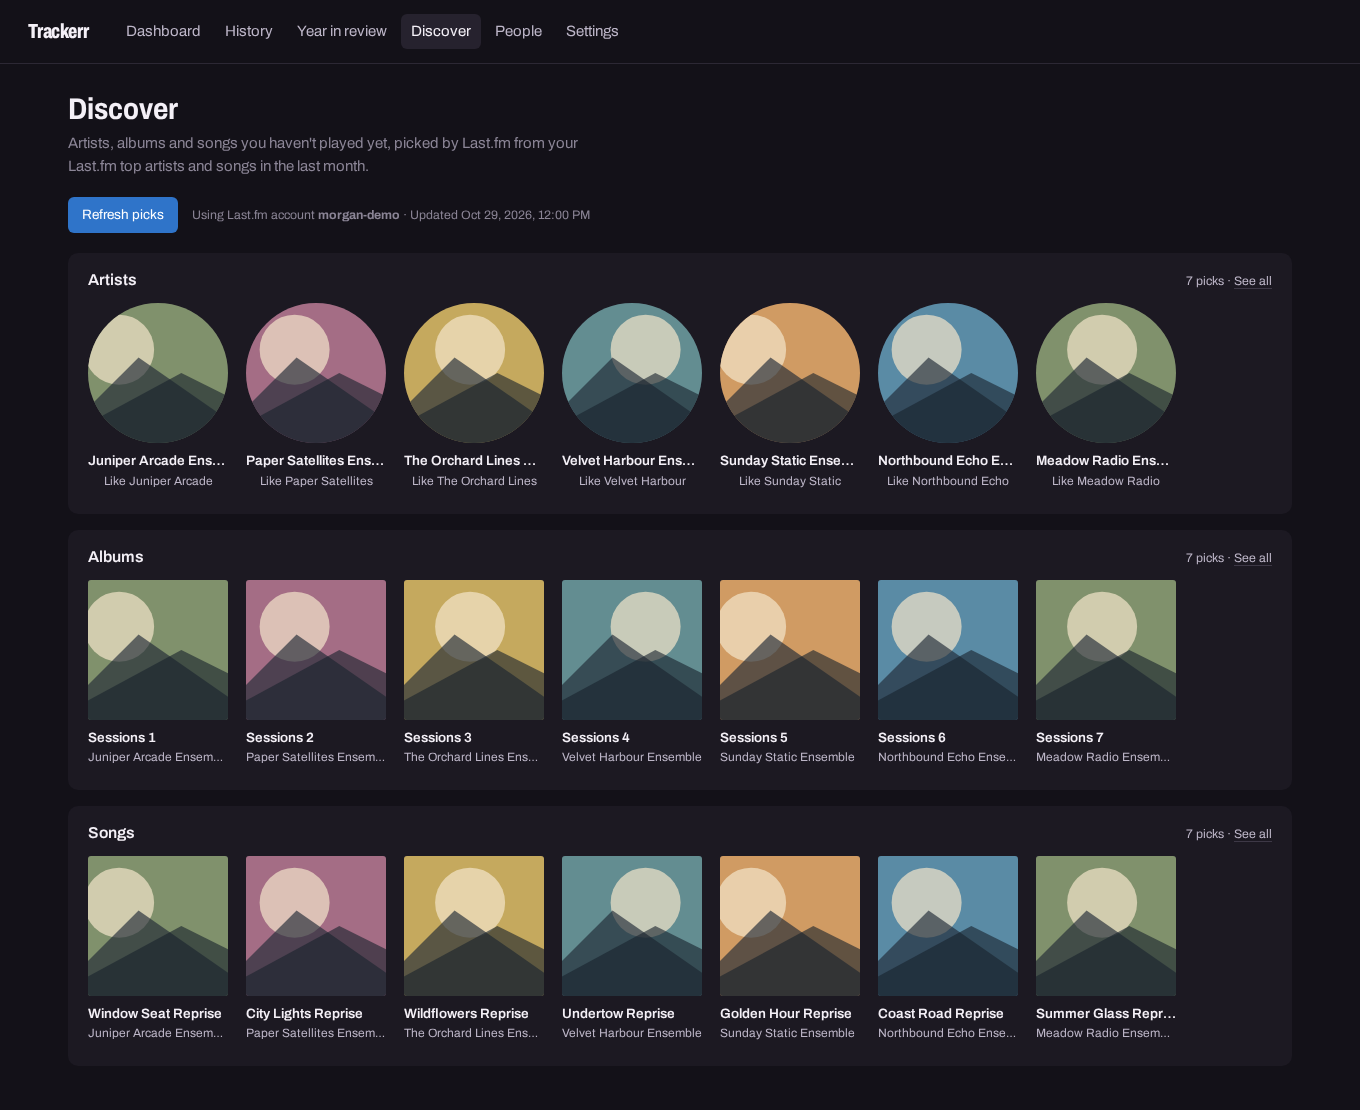
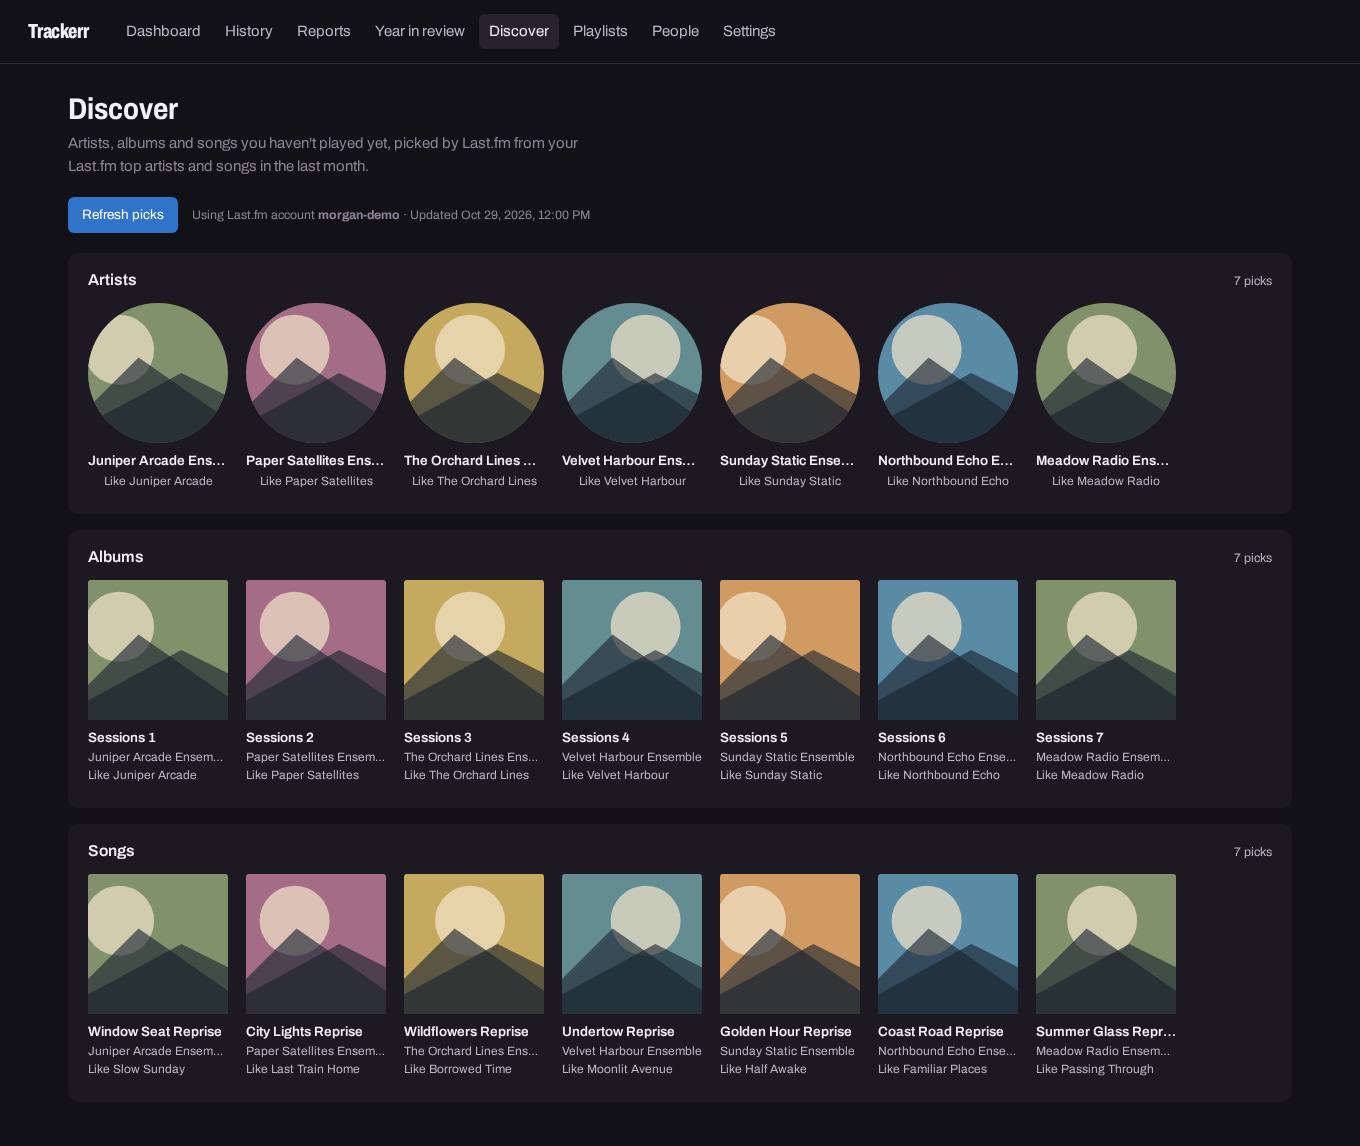
Show which played artist or song each Discover album and song is like
Albums now say "Like <seed artist>" under their artist, the way artist picks
already did, and songs say "Like <seed song>", with the seed's artist on hover.
A seed banned since the last refresh stops being named.

The screenshot script's demo picks gain the seeds list Discover reads (the page
returned 500 without it) and a seed song for each song pick.

diff --git a/src/lib/server/recs.review.test.ts b/src/lib/server/recs.review.test.ts
@@ -20,13 +20,15 @@ const start = await import('../../routes/auth/lastfm/+server.js');
 const callback = await import('../../routes/auth/lastfm/callback/+server.js');
 const settings = await import('../../routes/settings/+page.server.js');
 const discover = await import('../../routes/discover/+page.server.js');
+const ingest = await import('./ingest.js');
+const bans = await import('./bans.js');
 const { getJson, deezerStep } = await import('./enrich.js');
 let testTime = Date.parse('2026-10-02T00:00:00Z');
 
 beforeEach(() => {
   vi.useFakeTimers();
   vi.setSystemTime(testTime += 60_000);
-  for (const table of ['plays', 'sessions', 'cache', 'tracks', 'albums', 'artist_genres', 'artists', 'users']) db.run(`DELETE FROM ${table}`);
+  for (const table of ['bans', 'plays', 'sessions', 'cache', 'tracks', 'albums', 'artist_genres', 'artists', 'users']) db.run(`DELETE FROM ${table}`);
   db.run("INSERT INTO users (id, display_name, created_at, lastfm_user) VALUES (1, 'Alice', 0, 'alice-fm')");
 });
 afterEach(() => { vi.unstubAllGlobals(); vi.useRealTimers(); });
@@ -201,6 +203,22 @@ test('invalidates picks after unlink and linking another account', async () => {
   const linked = discover.load({ locals: { user: user() } } as never) as any;
   expect(linked.lastfmUser).toBe('bob-fm');
   expect(linked.picks).toBeNull();
+});
+
+test('albums and songs say which seed they are like, until that seed is banned', async () => {
+  fakeFetch();
+  await finish(recs.buildDiscover(user()));
+  const shown = () => (discover.load({ locals: { user: user() } } as never) as any).picks;
+  expect(shown().artists.map((a: any) => [a.artist, a.why])).toEqual([['New Band', 'Seed']]);
+  expect(shown().albums.map((a: any) => [a.album, a.why])).toEqual([['Debut', 'Seed']]);
+  expect(shown().songs.map((s: any) => [s.title, s.why, s.whyBy])).toEqual([['Fresh', 'Seed Song', 'Seed']]);
+  const seed = ingest.upsertArtist('Seed');
+  bans.ban(1, 'track', ingest.upsertTrack(seed, null, 'Seed Song').id);
+  expect(shown().songs[0].why).toBeUndefined();
+  expect(shown().albums[0].why).toBe('Seed');
+  bans.ban(1, 'artist', seed);
+  expect([shown().artists[0].why, shown().albums[0].why]).toEqual([undefined, undefined]);
+  expect(shown().songs.map((s: any) => s.title)).toEqual(['Fresh']);
 });
 
 test('rejects linking after the Trackerr account changes', async () => {

diff --git a/src/routes/discover/+page.server.ts b/src/routes/discover/+page.server.ts
@@ -5,13 +5,17 @@ import { lastfmApp } from '#lib/server/connections.js';
 import { get } from '#lib/server/db.js';
 import { bannedIds, bannedKeys, recBanned, type Banned } from '#lib/server/bans.js';
 
+type Keys = ReturnType<typeof bannedKeys>;
+// The seed a pick says it's like, unless that seed has been banned since.
+const seedBanned = (r: Rec, keys: Keys) => !!r.why && (r.title ? !!r.whyBy && keys.song(r.whyBy, r.why) : keys.artist(r.why));
 // Saved picks are filtered as they're shown, so a ban made since the last refresh still takes them out.
-const withUrl = (l: Rec[], banned: Banned) => l.filter((r) => !recBanned(banned, r)).map((r) => ({ ...r, url: spotifySearchUrl(r) }));
+const withUrl = (l: Rec[], banned: Banned, keys: Keys) =>
+	l.filter((r) => !recBanned(banned, r)).map((r) => ({ ...r, why: seedBanned(r, keys) ? undefined : r.why, url: spotifySearchUrl(r) }));
 
 export const load: PageServerLoad = ({ locals }) => {
 	const saved = savedDiscover(locals.user!.id);
 	const banned = bannedIds(locals.user!.id);
-	const bannedArtist = bannedKeys(locals.user!.id).artist;
+	const keys = bannedKeys(locals.user!.id);
 	return {
 		enabled: !!lastfmApp(),
 		lastfmUser: locals.user!.lastfm_user as string | null,
@@ -19,10 +23,10 @@ export const load: PageServerLoad = ({ locals }) => {
 		checking: get('SELECT COUNT(*) n FROM tracks WHERE credits_done = 0 AND spotify_id IS NOT NULL')!.n as number,
 		picks: saved && {
 			...saved,
-			seeds: saved.seeds.filter((s) => !bannedArtist(s)),
-			artists: withUrl(saved.artists, banned),
-			albums: withUrl(saved.albums, banned),
-			songs: withUrl(saved.songs, banned)
+			seeds: saved.seeds.filter((s) => !keys.artist(s)),
+			artists: withUrl(saved.artists, banned, keys),
+			albums: withUrl(saved.albums, banned, keys),
+			songs: withUrl(saved.songs, banned, keys)
 		}
 	};
 };

diff --git a/src/routes/discover/+page.svelte b/src/routes/discover/+page.svelte
@@ -27,6 +27,8 @@
 	};
 	type Pick = (typeof shelves)[number]['items'][number];
 	const name = (r: Pick) => r.title ?? r.album ?? r.artist;
+	// Albums and artists are like a seed artist; songs are like a seed song, named in full on hover.
+	const like = (r: Pick) => `Like ${r.why}${r.whyBy ? ` by ${r.whyBy}` : ''}`;
 	const local = (r: Pick) => (r.trackId ? `/track/${r.trackId}` : r.albumId ? `/album/${r.albumId}` : !r.title && !r.album && r.artistId ? `/artist/${r.artistId}` : null);
 </script>
 
@@ -79,7 +81,8 @@
 								<Cover src={r.image} alt={name(r)} size={140} round={s.round} />
 								<span class="name" title={name(r)}>{name(r)}</span>
 							</a>
-							<span class="sub">{s.round ? `Like ${r.why}` : r.artist}</span>
+							{#if !s.round}<span class="sub">{r.artist}</span>{/if}
+							{#if r.why}<span class="sub" title={like(r)}>Like {r.why}</span>{/if}
 						</li>
 					{/each}
 				</ul>

diff --git a/src/lib/server/recs.ts b/src/lib/server/recs.ts
@@ -19,6 +19,8 @@ export type Rec = {
 	image?: string | null;
 	/** The seed artist or song this pick came from. */
 	why?: string;
+	/** The seed song's artist, when `why` is a song. */
+	whyBy?: string;
 	trackId?: number | null;
 	albumId?: number | null;
 	artistId?: number | null;
@@ -285,7 +287,7 @@ export async function buildDiscover(user: Row) {
 	), memory, found);
 	const [songs, newAlbums] = await Promise.all([
 		unheard(interleave(
-			await Promise.all(seedSongs.map(async (s) => (await similarTracks(s.artist, s.title, PER_SEED)).filter((r) => !heardSongs.has(songKey(r))).map((r) => ({ ...r, why: s.title })))),
+			await Promise.all(seedSongs.map(async (s) => (await similarTracks(s.artist, s.title, PER_SEED)).filter((r) => !heardSongs.has(songKey(r))).map((r) => ({ ...r, why: s.title, whyBy: s.artist })))),
 			songKey,
 			MAX_PICKS
 		), memory, found),
